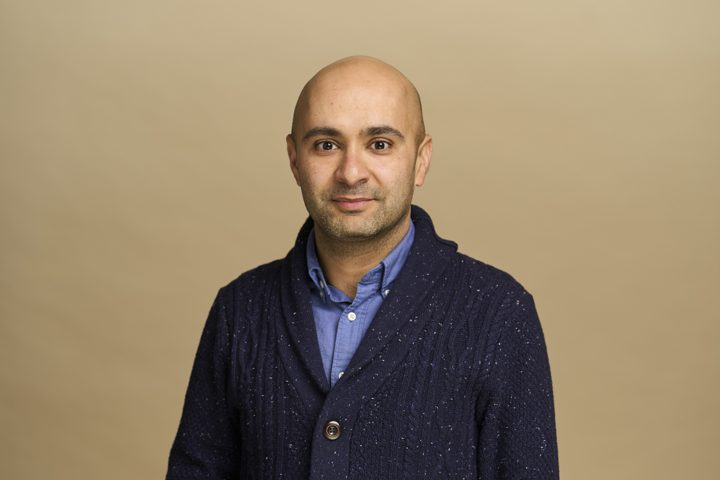
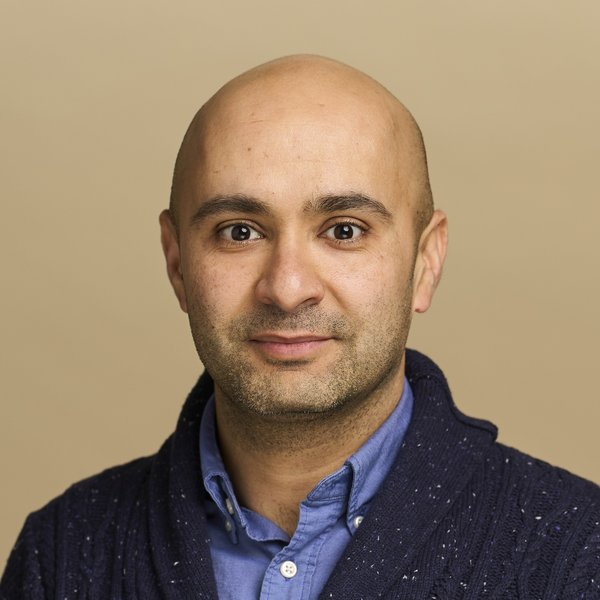
Remove public email, supervisor names and Professional Development; crop photo
- Remove email address from the sidebar on all pages
- Remove thesis supervisor names from Education
- Remove Professional Development section from the CV page
- Crop portrait to a square head-and-shoulders photo

Claude-Session: https://claude.ai/code/session_01THZsJqHHhQk73whcnfzjgi

diff --git a/cv.html b/cv.html
@@ -27,7 +27,6 @@
       <p class="sub">Winnipeg, Canada</p>
     </div>
     <div class="links">
-      <a href="mailto:rismanchian.farhood@gmail.com">rismanchian.farhood@gmail.com</a>
       <a href="https://www.linkedin.com/in/farhood-rismanchian-9325a832/" target="_blank" rel="noopener">LinkedIn</a>
       <a href="https://scholar.google.com/citations?user=YFpS0EEAAAAJ&amp;hl=en" target="_blank" rel="noopener">Google Scholar</a>
     </div>
@@ -53,7 +52,7 @@
         <span class="cv-dates">Aug 2017</span>
       </div>
       <div class="cv-org">Yonsei University, Seoul, South Korea</div>
-      <p>Thesis: Patient flow-based decision-making methods for healthcare systems. Supervisor: Prof. Young Hoon Lee.</p>
+      <p>Thesis: Patient flow-based decision-making methods for healthcare systems.</p>
     </div>
 
     <div class="cv-entry">
@@ -62,7 +61,7 @@
         <span class="cv-dates">Jan 2013</span>
       </div>
       <div class="cv-org">Eastern Mediterranean University, Famagusta, Cyprus</div>
-      <p>Thesis: Transient analysis of single machine production line dynamics. Supervisor: Prof. Alagar Rangan.</p>
+      <p>Thesis: Transient analysis of single machine production line dynamics.</p>
     </div>
 
     <div class="cv-entry">
@@ -210,18 +209,6 @@
       <li><span>A mixed integer programming model for optimizing the layout of an emergency department (poster) — HSPI 2017, Florida</span><span class="meta">2017</span></li>
     </ul>
     <p style="margin-top:12px; font-size:0.9rem;"><a href="publications.html#presentations">View all conference presentations →</a></p>
-  </section>
-
-  <section>
-    <h2 class="section-title">Professional Development</h2>
-    <ul class="simple-list">
-      <li><span>AI Transforming Health Care: Data — The Fuel for AI</span><span class="meta">CIHI</span></li>
-      <li><span>Using Case Mix to Address Policy and Planning</span><span class="meta">CIHI</span></li>
-      <li><span>Working With CIHI Indicators Learning Pathway</span><span class="meta">CIHI</span></li>
-      <li><span>Building with the Claude API</span><span class="meta">Anthropic</span></li>
-      <li><span>Introduction to Agent Skills</span><span class="meta">Anthropic</span></li>
-      <li><span>Cowork</span><span class="meta">Anthropic</span></li>
-    </ul>
   </section>
 
   <section>

diff --git a/assets/css/style.css b/assets/css/style.css
@@ -44,7 +44,7 @@ a:focus-visible { outline: 2px solid var(--accent); outline-offset: 2px; border-
   position: sticky;
   top: 32px;
 }
-.avatar { width: 220px; height: 220px; border-radius: 16px; object-fit: cover; object-position: center 30%; display: block; }
+.avatar { width: 220px; height: 220px; border-radius: 16px; object-fit: cover; object-position: center; display: block; }
 .id p { margin: 0; }
 .name { font-size: 26px; line-height: 1.2; font-weight: 700; color: var(--ink); margin-bottom: 6px !important; }
 .sub { font-size: 15px; color: var(--muted); line-height: 1.5; }

diff --git a/index.html b/index.html
@@ -27,7 +27,6 @@
       <p class="sub">Winnipeg, Canada</p>
     </div>
     <div class="links">
-      <a href="mailto:rismanchian.farhood@gmail.com">rismanchian.farhood@gmail.com</a>
       <a href="https://www.linkedin.com/in/farhood-rismanchian-9325a832/" target="_blank" rel="noopener">LinkedIn</a>
       <a href="https://scholar.google.com/citations?user=YFpS0EEAAAAJ&amp;hl=en" target="_blank" rel="noopener">Google Scholar</a>
     </div>

diff --git a/projects.html b/projects.html
@@ -27,7 +27,6 @@
       <p class="sub">Winnipeg, Canada</p>
     </div>
     <div class="links">
-      <a href="mailto:rismanchian.farhood@gmail.com">rismanchian.farhood@gmail.com</a>
       <a href="https://www.linkedin.com/in/farhood-rismanchian-9325a832/" target="_blank" rel="noopener">LinkedIn</a>
       <a href="https://scholar.google.com/citations?user=YFpS0EEAAAAJ&amp;hl=en" target="_blank" rel="noopener">Google Scholar</a>
     </div>

diff --git a/publications.html b/publications.html
@@ -27,7 +27,6 @@
       <p class="sub">Winnipeg, Canada</p>
     </div>
     <div class="links">
-      <a href="mailto:rismanchian.farhood@gmail.com">rismanchian.farhood@gmail.com</a>
       <a href="https://www.linkedin.com/in/farhood-rismanchian-9325a832/" target="_blank" rel="noopener">LinkedIn</a>
       <a href="https://scholar.google.com/citations?user=YFpS0EEAAAAJ&amp;hl=en" target="_blank" rel="noopener">Google Scholar</a>
     </div>

diff --git a/teaching.html b/teaching.html
@@ -27,7 +27,6 @@
       <p class="sub">Winnipeg, Canada</p>
     </div>
     <div class="links">
-      <a href="mailto:rismanchian.farhood@gmail.com">rismanchian.farhood@gmail.com</a>
       <a href="https://www.linkedin.com/in/farhood-rismanchian-9325a832/" target="_blank" rel="noopener">LinkedIn</a>
       <a href="https://scholar.google.com/citations?user=YFpS0EEAAAAJ&amp;hl=en" target="_blank" rel="noopener">Google Scholar</a>
     </div>
